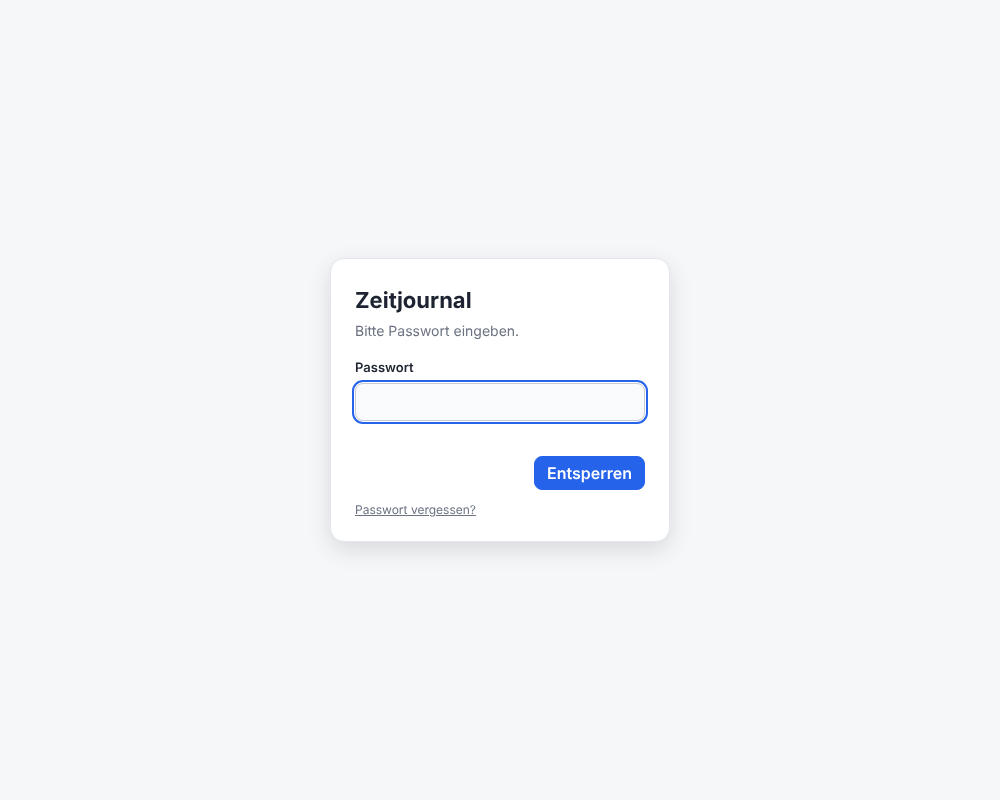
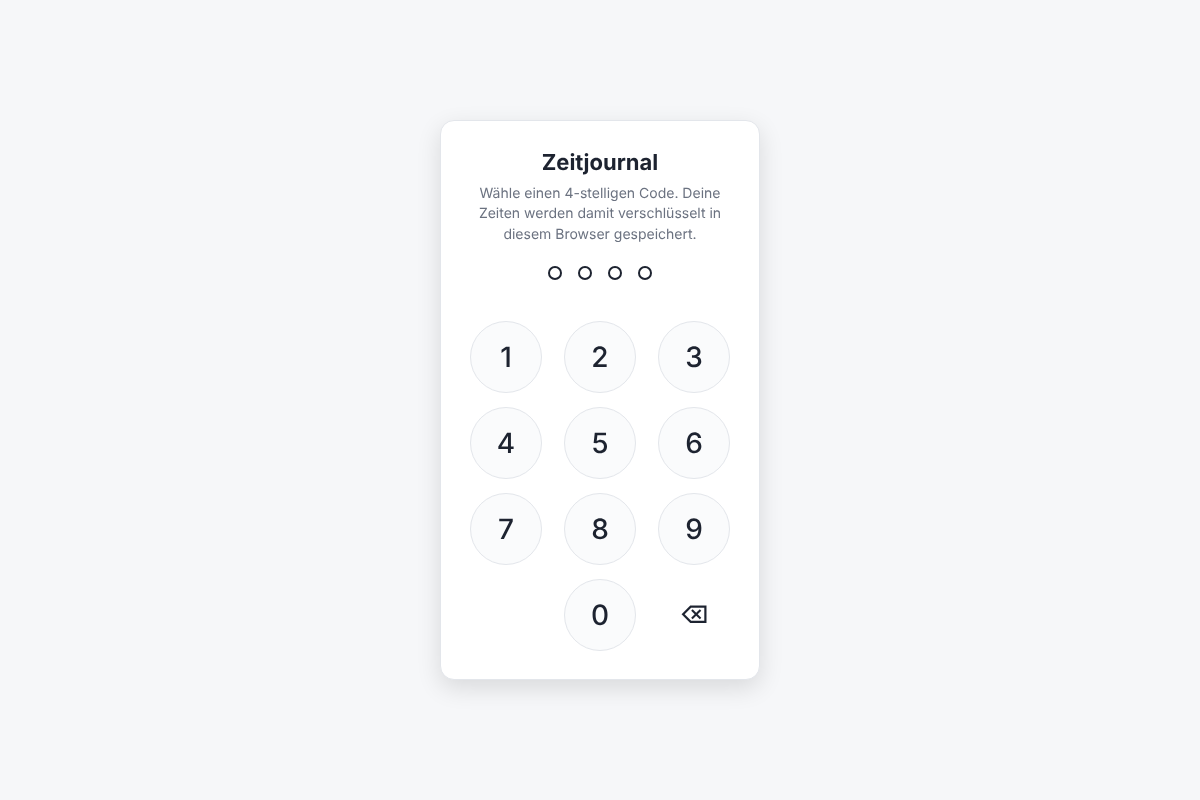
Code-Sperre mit Ziffernfeld statt Passwortfeld
Vierstelliger Code über ein Telefon-Ziffernfeld, Wartezeit nach
drei falschen Versuchen, Umstieg für ein bereits gesetztes Passwort.

Claude-Session: https://claude.ai/code/session_019KYk1w9oETUe27bZH7ojgJ

diff --git a/app.js b/app.js
@@ -33,7 +33,7 @@ let selectedId = null;
 const history = [];   // Zustände vor einer Änderung
 const future = [];    // für Wiederholen zurückgelegte Zustände
 
-// ---------- Speichern: mit dem Passwort verschlüsselt (AES-GCM, Schlüssel per PBKDF2) ----------
+// ---------- Speichern: mit dem Code verschlüsselt (AES-GCM, Schlüssel per PBKDF2) ----------
 const ENC_KEY = 'zeitjournal.v1.enc';  // { salt, iv, data } als Base64
 let cryptoKey = null;                  // gesetzt, sobald entsperrt
 let cryptoSalt = null;
@@ -59,7 +59,7 @@ function loadPlain() {
 async function persist() {
   const iv = crypto.getRandomValues(new Uint8Array(12));
   const data = await crypto.subtle.encrypt({ name: 'AES-GCM', iv }, cryptoKey, te.encode(JSON.stringify(state)));
-  localStorage.setItem(ENC_KEY, JSON.stringify({ v: 1, salt: toB64(cryptoSalt), iv: toB64(iv), data: toB64(data) }));
+  localStorage.setItem(ENC_KEY, JSON.stringify({ v: 1, kind: 'pin', salt: toB64(cryptoSalt), iv: toB64(iv), data: toB64(data) }));
 }
 let saving = null, saveAgain = false;
 function save() {
@@ -914,25 +914,60 @@ $('themeToggle').onclick = () => {
 };
 matchMedia('(prefers-color-scheme: dark)').addEventListener('change', renderThemeToggle);
 
-// ---------- Anmeldung ----------
-let lockMode = 'unlock'; // 'create' | 'unlock' | 'change'
+// ---------- Anmeldung mit 4-stelligem Code ----------
+const PIN_LEN = 4;
+const WAIT_KEY = 'zeitjournal.pinwait';  // { fails, until } – Wartezeit nach falschen Codes
+let lockMode = 'unlock'; // 'create' | 'confirm' | 'unlock' | 'change' | 'legacy'
+let pin = '', firstPin = '', checking = false, waitTimer = null;
+const LOCK_TEXT = {
+  create: 'Wähle einen 4-stelligen Code. Deine Zeiten werden damit verschlüsselt in diesem Browser gespeichert.',
+  change: 'Neuen 4-stelligen Code wählen.',
+  confirm: 'Code zur Sicherheit wiederholen.',
+  unlock: 'Code eingeben',
+  legacy: 'Bitte einmal das bisherige Passwort eingeben, danach wählst du einen Code.',
+};
+function readWait() {
+  try { return JSON.parse(localStorage.getItem(WAIT_KEY)) || { fails: 0, until: 0 }; } catch (e) { return { fails: 0, until: 0 }; }
+}
+function writeWait(w) { try { localStorage.setItem(WAIT_KEY, JSON.stringify(w)); } catch (e) { /* ignorieren */ } }
+function renderPin() {
+  $('pinDots').querySelectorAll('span').forEach((d, i) => d.classList.toggle('on', i < pin.length));
+}
+// Nach 3 falschen Codes 30 Sekunden warten, danach jeweils doppelt so lange
+function applyWait() {
+  clearTimeout(waitTimer);
+  const left = lockMode === 'unlock' ? Math.ceil((readWait().until - Date.now()) / 1000) : 0;
+  const blocked = left > 0;
+  $('pinpad').querySelectorAll('button[data-d], #pinBack').forEach(b => { b.disabled = blocked || checking; });
+  if (blocked) {
+    $('lockError').textContent = `Zu viele falsche Versuche. Bitte ${left} s warten.`;
+    waitTimer = setTimeout(applyWait, 1000);
+  } else if ($('lockError').textContent.startsWith('Zu viele')) {
+    $('lockError').textContent = '';
+  }
+  return blocked;
+}
 function showLock(mode) {
   lockMode = mode;
-  const create = mode !== 'unlock';
-  $('lockText').textContent = mode === 'create'
-    ? 'Lege ein Passwort fest. Deine Zeiten werden damit verschlüsselt in diesem Browser gespeichert.'
-    : mode === 'change' ? 'Neues Passwort festlegen.' : 'Bitte Passwort eingeben.';
-  $('pw1Label').textContent = create ? 'Neues Passwort' : 'Passwort';
-  $('pw1').autocomplete = create ? 'new-password' : 'current-password';
-  $('pw2Row').hidden = !create;
-  $('pw2').required = create;
-  $('lockBtn').textContent = mode === 'unlock' ? 'Entsperren' : 'Speichern';
-  $('lockCancel').hidden = mode !== 'change';
-  $('lockForgot').hidden = mode !== 'unlock';
+  pin = '';
+  $('lockText').textContent = LOCK_TEXT[mode];
+  $('lockCancel').hidden = mode !== 'change' && !(mode === 'confirm' && cryptoKey);
+  $('lockForgot').hidden = mode !== 'unlock' && mode !== 'legacy';
+  $('legacyForm').hidden = mode !== 'legacy';
+  $('pinDots').hidden = $('pinpad').hidden = mode === 'legacy';
   $('lockError').textContent = '';
-  $('pw1').value = $('pw2').value = '';
   $('lock').hidden = false;
-  $('pw1').focus();
+  renderPin();
+  applyWait();
+  if (mode === 'legacy') $('legacyPw').focus();
+  else if (document.activeElement && !$('lock').contains(document.activeElement)) document.activeElement.blur();
+}
+function pinError(text) {
+  $('lockError').textContent = text;
+  const dots = $('pinDots');
+  dots.classList.remove('shake'); void dots.offsetWidth; dots.classList.add('shake');
+  pin = '';
+  renderPin();
 }
 let started = false;
 function startApp() {
@@ -941,35 +976,76 @@ function startApp() {
   render();
   if (!started) { started = true; setInterval(tick, 1000); }
 }
-$('lockForm').addEventListener('submit', async ev => {
-  ev.preventDefault();
-  const pw = $('pw1').value;
-  const btn = $('lockBtn');
-  $('lockError').textContent = '';
-  if (lockMode !== 'unlock') {
-    if (pw.length < 4) { $('lockError').textContent = 'Bitte mindestens 4 Zeichen.'; return; }
-    if (pw !== $('pw2').value) { $('lockError').textContent = 'Die beiden Passwörter sind nicht gleich.'; return; }
+async function pinComplete() {
+  const code = pin;
+  if (lockMode === 'create' || lockMode === 'change') {
+    firstPin = code;
+    showLock('confirm');
+    return;
   }
-  btn.disabled = true;
+  if (lockMode === 'confirm') {
+    if (code !== firstPin) { const back = cryptoKey ? 'change' : 'create'; showLock(back); pinError('Die Codes waren nicht gleich. Bitte noch einmal.'); return; }
+    checking = true; applyWait();
+    try {
+      const wasChange = !!cryptoKey;
+      if (!wasChange) loadPlain();
+      await setPassword(code);
+      writeWait({ fails: 0, until: 0 });
+      if (wasChange) toast('Code geändert.');
+      startApp();
+    } catch (e) {
+      pinError('Das hat nicht geklappt. Bitte noch einmal.');
+    } finally { checking = false; applyWait(); }
+    return;
+  }
+  // entsperren
+  checking = true; applyWait();
   try {
-    if (lockMode === 'unlock') await unlockWith(pw);
-    else {
-      if (lockMode === 'create') loadPlain();
-      await setPassword(pw);
-      if (lockMode === 'change') toast('Passwort geändert.');
-    }
+    await unlockWith(code);
+    writeWait({ fails: 0, until: 0 });
     startApp();
   } catch (e) {
-    $('lockError').textContent = lockMode === 'unlock' ? 'Das Passwort stimmt nicht.' : 'Das hat nicht geklappt. Bitte noch einmal versuchen.';
-    $('pw1').select();
-  } finally {
-    btn.disabled = false;
+    const w = readWait();
+    w.fails++;
+    if (w.fails >= 3) w.until = Date.now() + 30000 * 2 ** (w.fails - 3);
+    writeWait(w);
+    pinError('Falscher Code.');
+  } finally { checking = false; applyWait(); }
+}
+function pressDigit(d) {
+  if ($('lock').hidden || lockMode === 'legacy' || checking || applyWait() || pin.length >= PIN_LEN) return;
+  pin += d;
+  if ($('lockError').textContent && pin.length === 1) $('lockError').textContent = '';
+  renderPin();
+  if (pin.length === PIN_LEN) setTimeout(pinComplete, 120); // letzten Punkt kurz zeigen
+}
+$('pinpad').addEventListener('click', ev => {
+  const b = ev.target.closest('button[data-d]');
+  if (b) pressDigit(b.dataset.d);
+});
+$('pinBack').onclick = () => { if (!checking) { pin = pin.slice(0, -1); renderPin(); } };
+document.addEventListener('keydown', ev => {
+  if ($('lock').hidden || lockMode === 'legacy') return;
+  if (/^[0-9]$/.test(ev.key)) { ev.preventDefault(); pressDigit(ev.key); }
+  else if (ev.key === 'Backspace') { ev.preventDefault(); $('pinBack').click(); }
+  else if (ev.key === 'Escape' && !$('lockCancel').hidden) $('lockCancel').click();
+});
+// Ältere Version mit Textpasswort: einmal entsperren, dann Code festlegen
+$('legacyForm').addEventListener('submit', async ev => {
+  ev.preventDefault();
+  try {
+    await unlockWith($('legacyPw').value);
+    $('legacyPw').value = '';
+    showLock('change');
+    $('lockText').textContent = 'Entsperrt. Wähle jetzt einen 4-stelligen Code.';
+  } catch (e) {
+    $('lockError').textContent = 'Das Passwort stimmt nicht.';
   }
 });
-$('lockCancel').onclick = () => { $('lock').hidden = true; };
+$('lockCancel').onclick = () => { if (started) $('lock').hidden = true; else startApp(); };
 $('lockForgot').onclick = async () => {
-  if (!await askConfirm('Ohne Passwort lassen sich die gespeicherten Zeiten nicht entschlüsseln. Alle Daten in diesem Browser löschen und mit einem neuen Passwort neu beginnen?', 'Alles löschen')) return;
-  try { localStorage.removeItem(ENC_KEY); localStorage.removeItem(STORAGE_KEY); } catch (e) { /* ignorieren */ }
+  if (!await askConfirm('Ohne Code lassen sich die gespeicherten Zeiten nicht entschlüsseln. Alle Daten in diesem Browser löschen und mit einem neuen Code neu beginnen?', 'Alles löschen')) return;
+  try { [ENC_KEY, STORAGE_KEY, WAIT_KEY].forEach(k => localStorage.removeItem(k)); } catch (e) { /* ignorieren */ }
   showLock('create');
 };
 $('lockNow').onclick = async () => {
@@ -982,7 +1058,8 @@ $('changePw').onclick = () => showLock('change');
 renderThemeToggle();
 if (!window.crypto?.subtle) {
   $('lockText').textContent = 'Dieser Browser unterstützt keine Verschlüsselung. Bitte die Seite über https öffnen.';
-  $('lockForm').querySelectorAll('input, button').forEach(el => { el.disabled = true; });
+  $('pinpad').querySelectorAll('button').forEach(el => { el.disabled = true; });
 } else {
-  showLock(readEncrypted() ? 'unlock' : 'create');
+  const rec = readEncrypted();
+  showLock(!rec ? 'create' : rec.kind === 'pin' ? 'unlock' : 'legacy');
 }

diff --git a/style.css b/style.css
@@ -386,21 +386,27 @@ body.resizing, body.resizing * { cursor: inherit !important; user-select: none; 
 .lock-card h1 { margin: 0; font-size: 22px; }
 .lock-card p { margin: 0 0 6px; color: var(--muted); font-size: 14px; line-height: 1.45; }
 .lock-card label { font-size: 13px; font-weight: 600; margin-top: 4px; }
-.lock-card input {
-  font: inherit;
-  padding: 8px 10px;
-  border: 1px solid var(--line-strong);
-  border-radius: 8px;
-  background: var(--track);
-  color: var(--text);
-  width: 100%;
-}
-.lock-card input:focus { outline: 2px solid var(--accent); outline-offset: 1px; }
-#pw2Row { display: flex; flex-direction: column; gap: 8px; }
-#pw2Row[hidden] { display: none; }
-.lock-error { color: var(--danger) !important; min-height: 1.2em; margin: 2px 0 0 !important; }
-.lock-actions { display: flex; justify-content: flex-end; gap: 8px; }
-.linklike { border: 0; background: none; padding: 4px 0; color: var(--muted); font-size: 12px; align-self: flex-start; text-decoration: underline; }
+.lock-card { align-items: center; text-align: center; max-width: 320px; }
+.lock-card p { margin: 0; }
+.pin-dots { display: flex; gap: 16px; margin: 14px 0 4px; }
+.pin-dots span { width: 14px; height: 14px; border-radius: 50%; border: 2px solid var(--text); }
+.pin-dots span.on { background: var(--text); }
+.pin-dots.shake { animation: shake .35s; }
+@keyframes shake { 20%, 60% { transform: translateX(-8px); } 40%, 80% { transform: translateX(8px); } }
+.pinpad { display: grid; grid-template-columns: repeat(3, 72px); gap: 14px 22px; margin: 4px 0 8px; }
+.pinpad button { width: 72px; height: 72px; border-radius: 50%; font-size: 28px; font-weight: 500; background: var(--track); border: 1px solid var(--line); color: var(--text); padding: 0; }
+.pinpad button:hover:not(:disabled) { background: var(--hover); }
+.pinpad button:active:not(:disabled) { background: var(--line-strong); }
+.pinpad button:disabled { opacity: .4; cursor: default; }
+.pinpad .pin-zero { grid-column: 2; grid-row: 4; }
+.pinpad .pin-text { background: none; border: 0; font-size: 15px; }
+.pinpad #lockCancel { grid-column: 1; grid-row: 4; }
+.pinpad #pinBack { grid-column: 3; grid-row: 4; font-size: 24px; }
+.legacy { display: flex; flex-direction: column; gap: 8px; width: 100%; text-align: left; }
+.legacy[hidden] { display: none; }
+.legacy input { font: inherit; padding: 8px 10px; border: 1px solid var(--line-strong); border-radius: 8px; background: var(--track); color: var(--text); width: 100%; }
+.lock-error { color: var(--danger) !important; min-height: 1.3em; font-size: 13px !important; }
+.linklike { border: 0; background: none; padding: 4px 0; color: var(--muted); font-size: 12px; align-self: center; text-decoration: underline; }
 .dialog { background: var(--panel); color: var(--text); border: 1px solid var(--line); border-radius: 12px; box-shadow: var(--shadow); padding: 20px; max-width: 420px; width: 100%; }
 .dialog p { margin: 0 0 16px; line-height: 1.45; }
 .dialog-actions { display: flex; justify-content: flex-end; gap: 8px; }

diff --git a/index.html b/index.html
@@ -101,26 +101,28 @@
     <button id="exportCsv">CSV exportieren</button>
     <button id="exportJson">Sicherung speichern</button>
     <label class="filebtn">Sicherung laden<input type="file" id="importJson" accept="application/json"></label>
-    <button id="changePw">Passwort ändern</button>
+    <button id="changePw">Code ändern</button>
   </footer>
 
   <div id="lock" class="lock">
-    <form id="lockForm" class="lock-card" autocomplete="on">
+    <div class="lock-card">
       <h1>Zeitjournal</h1>
       <p id="lockText"></p>
-      <label for="pw1" id="pw1Label">Passwort</label>
-      <input type="password" id="pw1" autocomplete="current-password" required>
-      <div id="pw2Row" hidden>
-        <label for="pw2">Passwort wiederholen</label>
-        <input type="password" id="pw2" autocomplete="new-password">
-      </div>
+      <div class="pin-dots" id="pinDots" aria-hidden="true"><span></span><span></span><span></span><span></span></div>
       <p id="lockError" class="lock-error" role="alert"></p>
-      <div class="lock-actions">
-        <button type="button" id="lockCancel" hidden>Abbrechen</button>
-        <button type="submit" id="lockBtn" class="primary">Entsperren</button>
+      <div class="pinpad" id="pinpad" role="group" aria-label="Zifferntastatur">
+        <button type="button" data-d="1">1</button><button type="button" data-d="2">2</button><button type="button" data-d="3">3</button>
+        <button type="button" data-d="4">4</button><button type="button" data-d="5">5</button><button type="button" data-d="6">6</button>
+        <button type="button" data-d="7">7</button><button type="button" data-d="8">8</button><button type="button" data-d="9">9</button>
+        <button type="button" id="lockCancel" class="pin-text" hidden>Abbrechen</button><button type="button" data-d="0" class="pin-zero">0</button><button type="button" id="pinBack" class="pin-text" aria-label="Letzte Ziffer löschen">⌫</button>
       </div>
-      <button type="button" id="lockForgot" class="linklike">Passwort vergessen?</button>
-    </form>
+      <form id="legacyForm" class="legacy" hidden>
+        <label for="legacyPw">Bisheriges Passwort</label>
+        <input type="password" id="legacyPw" autocomplete="current-password">
+        <button type="submit" class="primary">Entsperren</button>
+      </form>
+      <button type="button" id="lockForgot" class="linklike">Code vergessen?</button>
+    </div>
   </div>
 
   <div id="editor" class="editor" hidden>

diff --git a/README.md b/README.md
@@ -30,7 +30,8 @@ Online: https://matthiassuetterlin.github.io/Zeitjournal/
 | Tage wechseln | ← / → / T, oder in der Monats- oder Wochenübersicht auf einen Tag klicken |
 | Monatsübersicht | Jeder Tag zeigt Stunden und einen Farbstreifen, was gearbeitet wurde; ‹ › blättert die Monate |
 
-## Passwortschutz
+## Code-Sperre
 
-Die Zeiten werden mit dem Passwort verschlüsselt (AES-GCM, Schlüssel per PBKDF2) im Browser gespeichert und nie an einen Server geschickt. Wer die Seite öffnet, sieht ohne Passwort nur die Anmeldung, und auch direkt aus dem Browser-Speicher lassen sich die Daten ohne Passwort nicht lesen. Der Programmcode selbst bleibt öffentlich, er enthält aber keine Daten. Ohne Passwort sind die Daten verloren; „Passwort vergessen?“ löscht sie und beginnt neu. Eine gespeicherte Sicherung (JSON) ist nicht verschlüsselt.
+Beim Öffnen fragt das Zeitjournal nach einem 4-stelligen Code, eingegeben über ein Ziffernfeld wie beim Telefon (Maus, Finger oder Zifferntasten). Die Zeiten werden mit dem Code verschlüsselt (AES-GCM, Schlüssel per PBKDF2) im Browser gespeichert und nie an einen Server geschickt. Nach drei falschen Codes muss man 30 Sekunden warten, danach jeweils doppelt so lange.
 
+Ein 4-stelliger Code schützt vor neugierigen Blicken, aber nicht vor jemandem, der den Rechner in die Hand bekommt und gezielt alle 10.000 Codes durchprobiert. Ohne Code sind die Daten verloren; „Code vergessen?“ löscht sie und beginnt neu. Eine gespeicherte Sicherung (JSON) ist nicht verschlüsselt.
